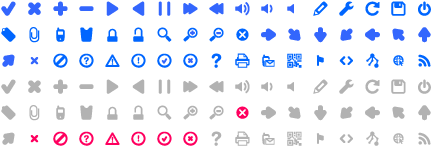
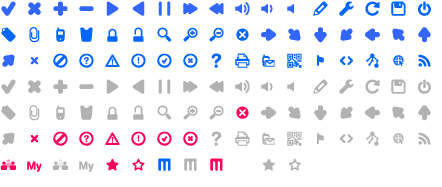
menu dropdown excursion

diff --git a/app/assets/stylesheets/application.css.scss b/app/assets/stylesheets/application.css.scss
@@ -1275,7 +1275,7 @@ li{list-style-type:none}
 .icontool16-tool16_embed { background-position: -338px -52px;}
 .icontool16-tool16_ramification { background-position: -364px -52px;}
 .icontool16-tool16_html { background-position: -390px -52px;}
-.icontool16-tool16_rss { background-position: -316px -52px;}
+.icontool16-tool16_rss { background-position: -416px -52px;}
 
 
 /*hover*/
@@ -1330,7 +1330,20 @@ li{list-style-type:none}
 .icontool16-tool16_embed:hover { background-position: -338px -130px;}
 .icontool16-tool16_ramification:hover { background-position: -364px -130px;}
 .icontool16-tool16_html:hover { background-position: -390px -130px;}
-.icontool16-tool16_rss:hover { background-position: -316px -130px;}
+.icontool16-tool16_rss:hover { background-position: -416px -130px;}
+
+.icontool16-tool16_followers { background-position: 0px -156px;}
+.icontool16-tool16_followers:hover { background-position: -52px -156px;}
+.icontool16-tool16_my {background-position: -26px -156px;}
+.icontool16-tool16_my:hover { background-position: -78px -156px;}
+.icontool16-tool16_star {background-position: -104px -156px;}
+.icontool16-tool16_star2 {background-position: -130px -156px;}
+.icontool16-tool16_star:hover { background-position: -260px -156px;}
+.icontool16-tool16_star2:hover { background-position: -286px -156px;}
+.icontool16-tool16_mashme {background-position: -156px -156px;}
+.icontool16-tool16_mashme:hover { background-position: -182px -156px;}
+.icontool16-tool16_mashmered {background-position: -208px -156px;}
+.icontool16-tool16_mashmewhite {background-position: -234px -156px;}
 
 .icon_close{
   display:inline-block;
@@ -1853,4 +1866,8 @@ margin-right: 15px;
   right: 10px;
   top: 10px;
   width: 32px;
+}
+#dropdown-menu2{
+
+background-color: #ff3bfd   !important;
 }
